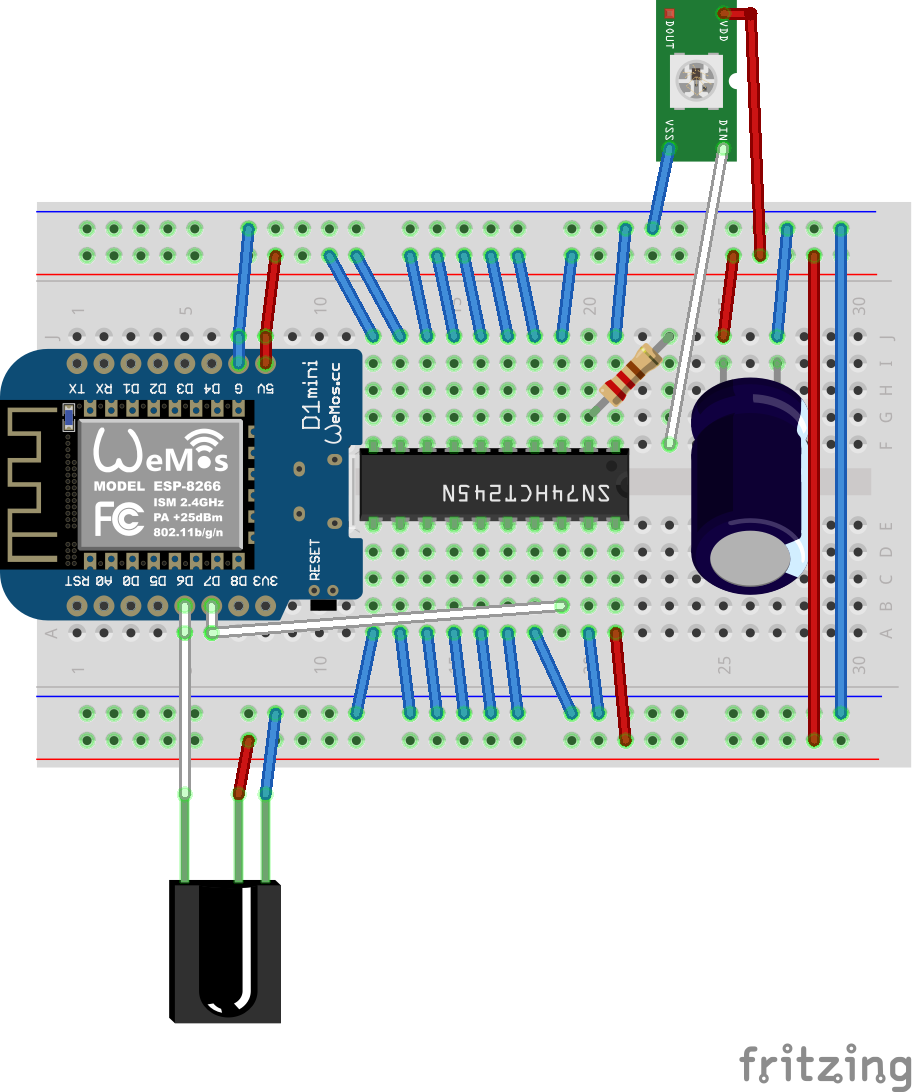
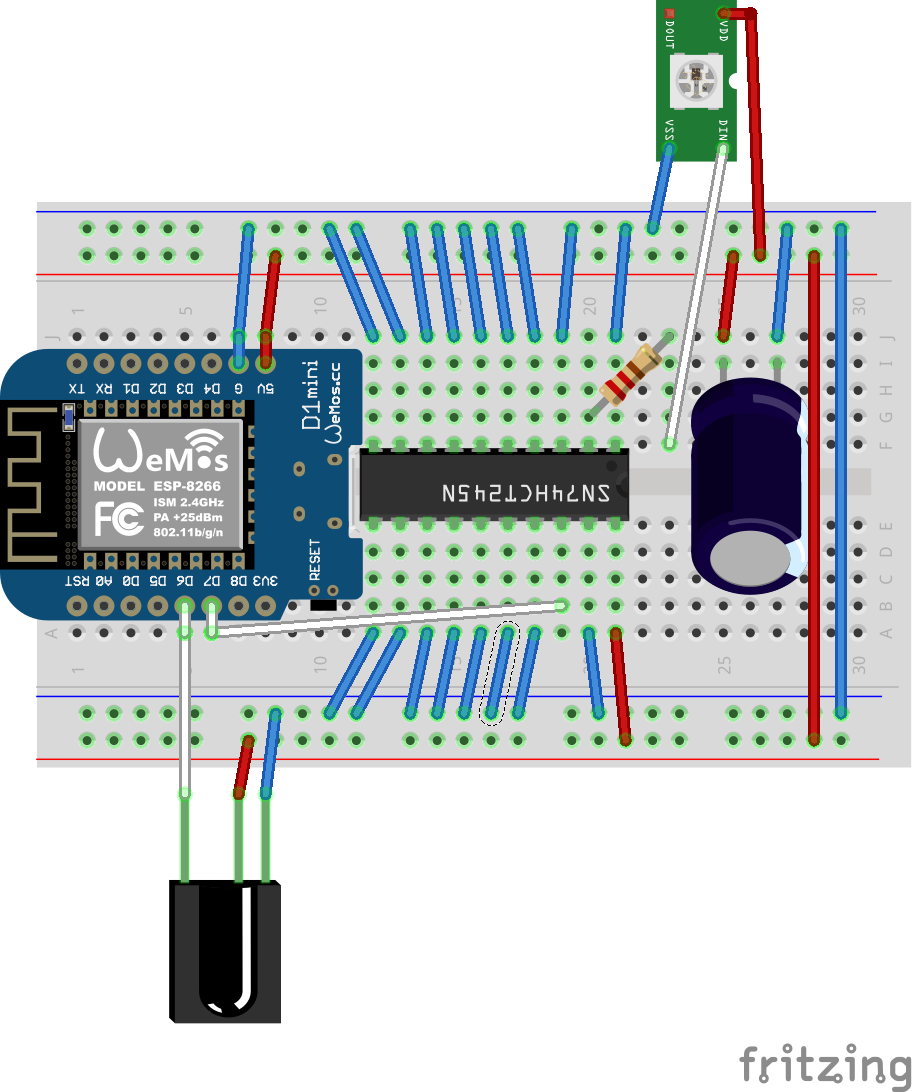
Fixed capacitor link, updated incorrect ground connections in Fritzing diagram and image.

Changed region(s): [[0.3377, 0.1868, 0.5833, 0.3114], [0.3377, 0.5604, 0.6447, 0.685], [0.614, 0.1868, 0.6447, 0.2802]]

diff --git a/_posts/2016-11-01-tree-v2.md b/_posts/2016-11-01-tree-v2.md
@@ -60,7 +60,7 @@ The whole project, including some tools you may not have, costs about $200.  I a
 * $5 - [4-Way 2.1mm DC Barrel Jack Splitter](https://www.adafruit.com/products/1352)
 * $6 - [4 White 5.5mm x 2.1mm Female Plug](https://www.aliexpress.com/item/5-pcs-High-Quality-White-5-5mm-x-2-1mm-Female-DC-Power-Extension-Cable-for/32324346664.html)
 * $2 - [IR Receiver Diode - TSOP38238](https://www.adafruit.com/products/157)
-* $2 - [1000µF Capacitor](https://www.adafruit.com/products/1589)
+* $2 - [1000µF Capacitor](https://www.sparkfun.com/products/8982)
 * $1 - [470 ohm resistor](https://www.adafruit.com/products/2781)
 * $5 - 250+ white 4" zip ties
 * $5 - Lots of white wire
